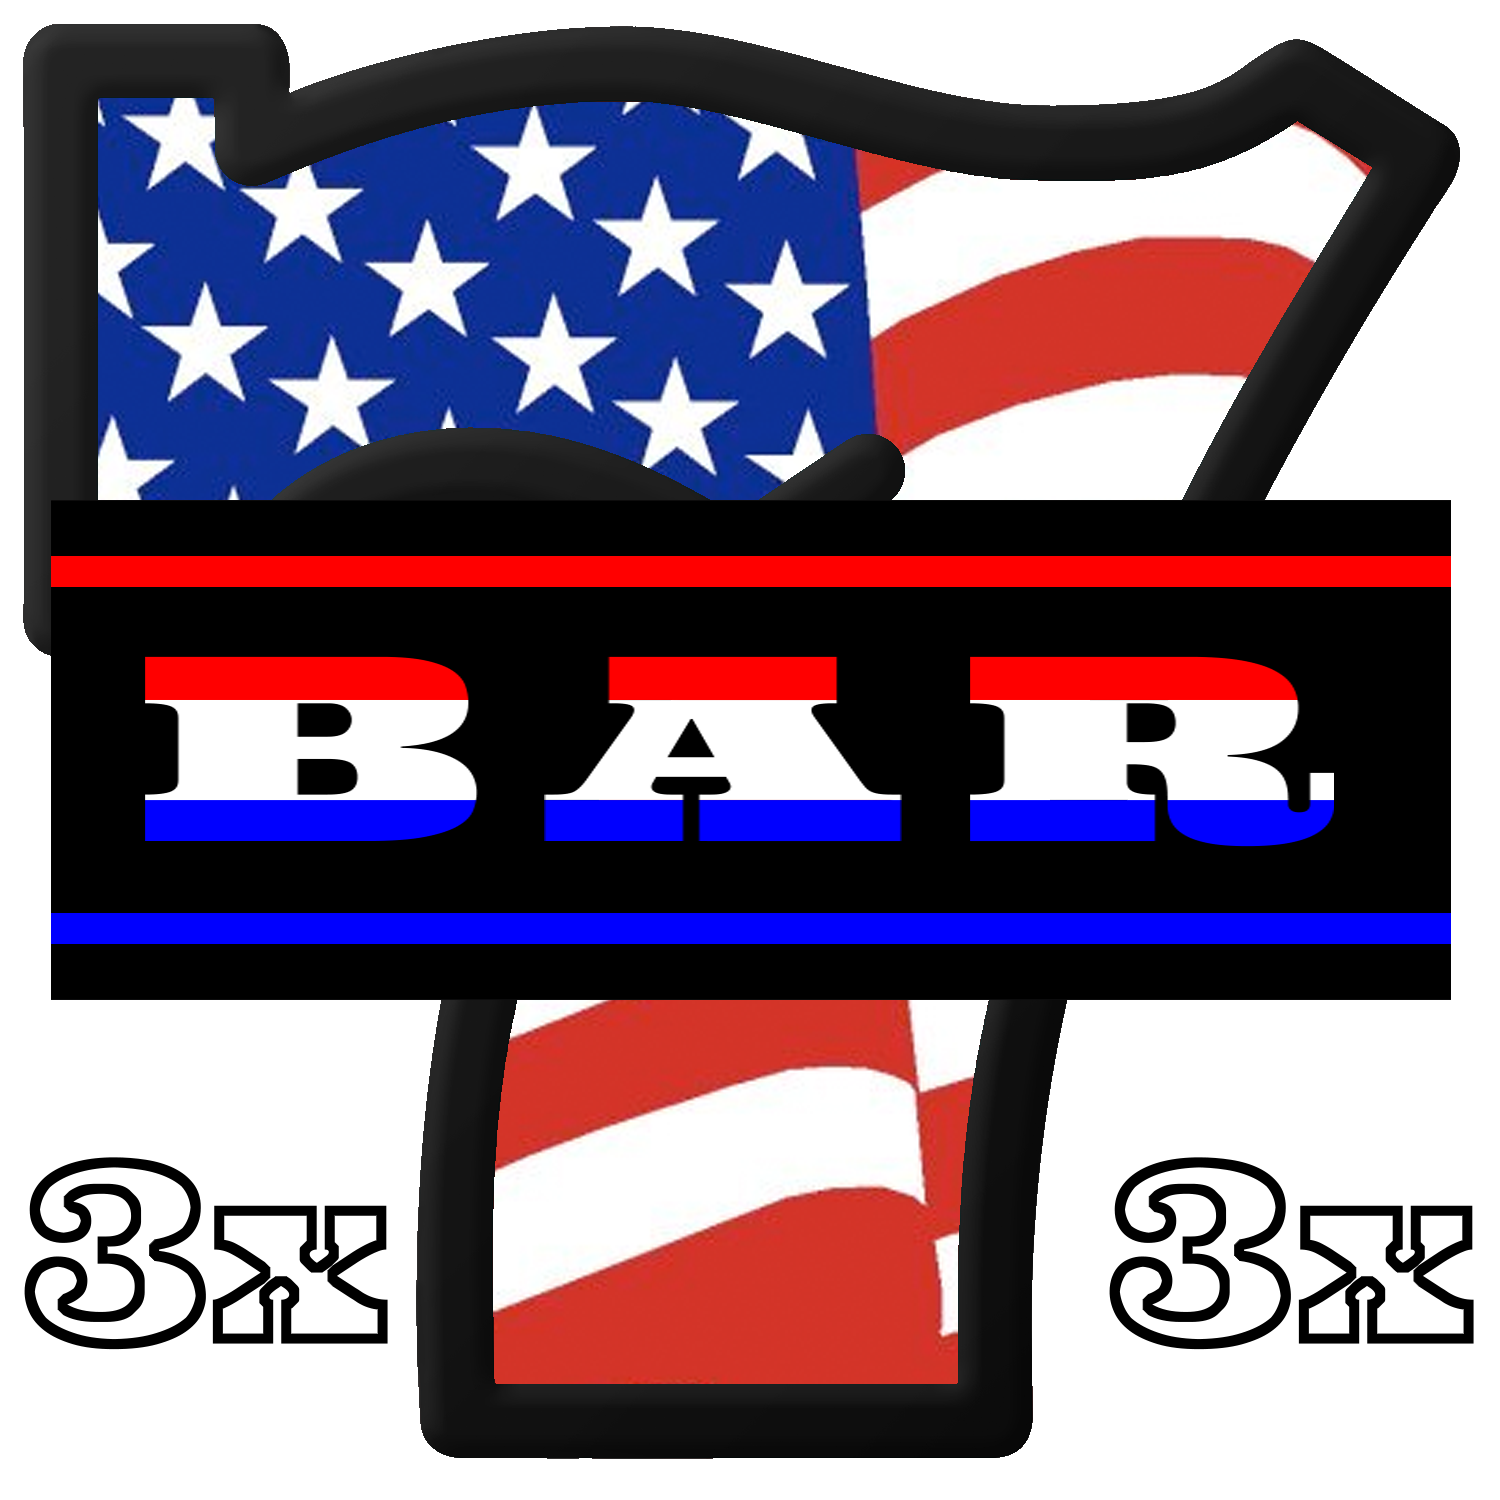
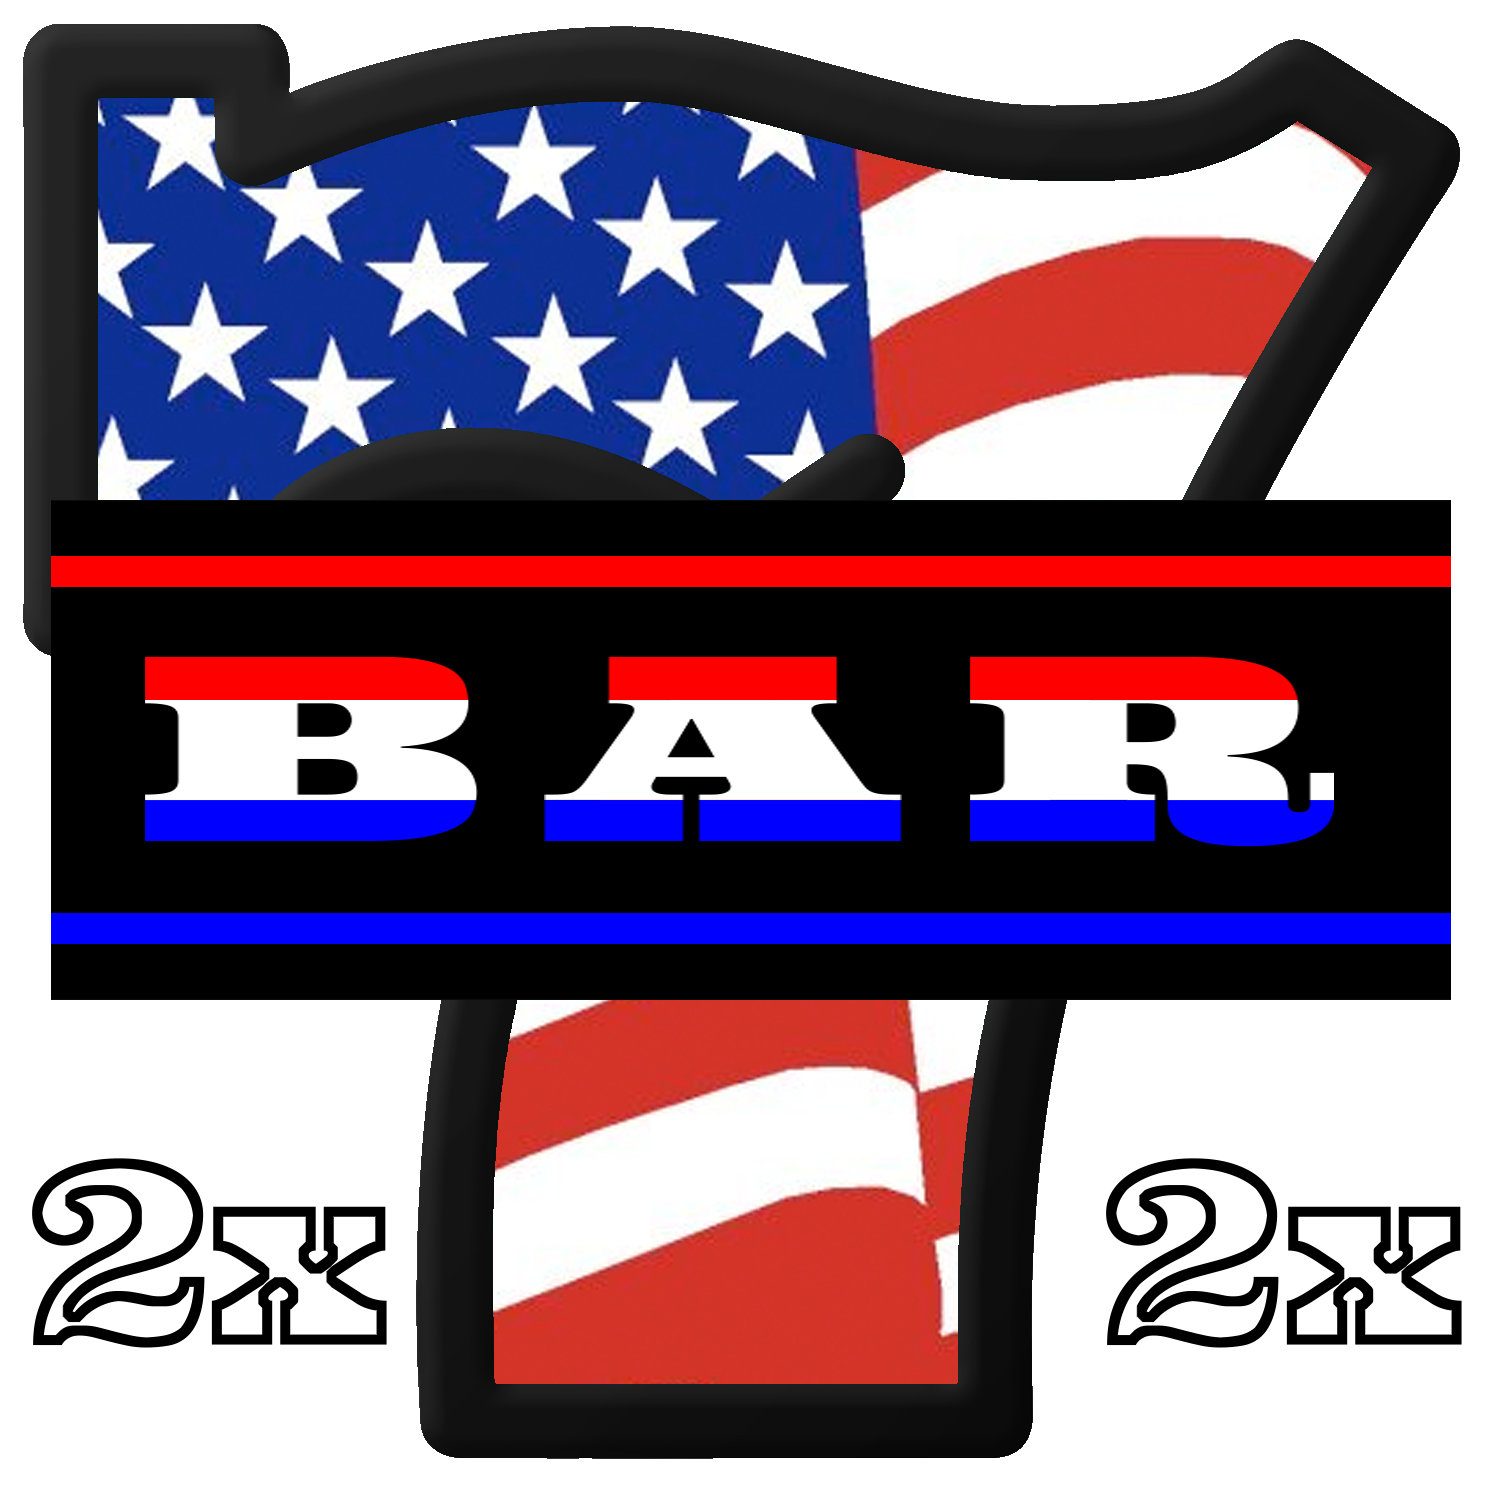
Changed wild multiplier to 2x.

Changed region(s): [[0.736, 0.7667, 0.9813, 0.92], [0.0, 0.7667, 0.184, 0.92], [0.184, 0.7973, 0.2453, 0.8587]]

diff --git a/scripts/slots.js b/scripts/slots.js
@@ -870,7 +870,7 @@ function checkPayline() {
 			payout *= betAmt;
 		}
 		if ( wintype != 0 && wintype != 12 && wintype != 16) {
-			payout *= Math.pow(3, wilds);
+			payout *= Math.pow(2, wilds);
 		}
 		document.getElementById("wintype").innerHTML="<marquee>"+paytable[wintype][4]+"</marquee>";
 		document.getElementById("win").value=payout;
